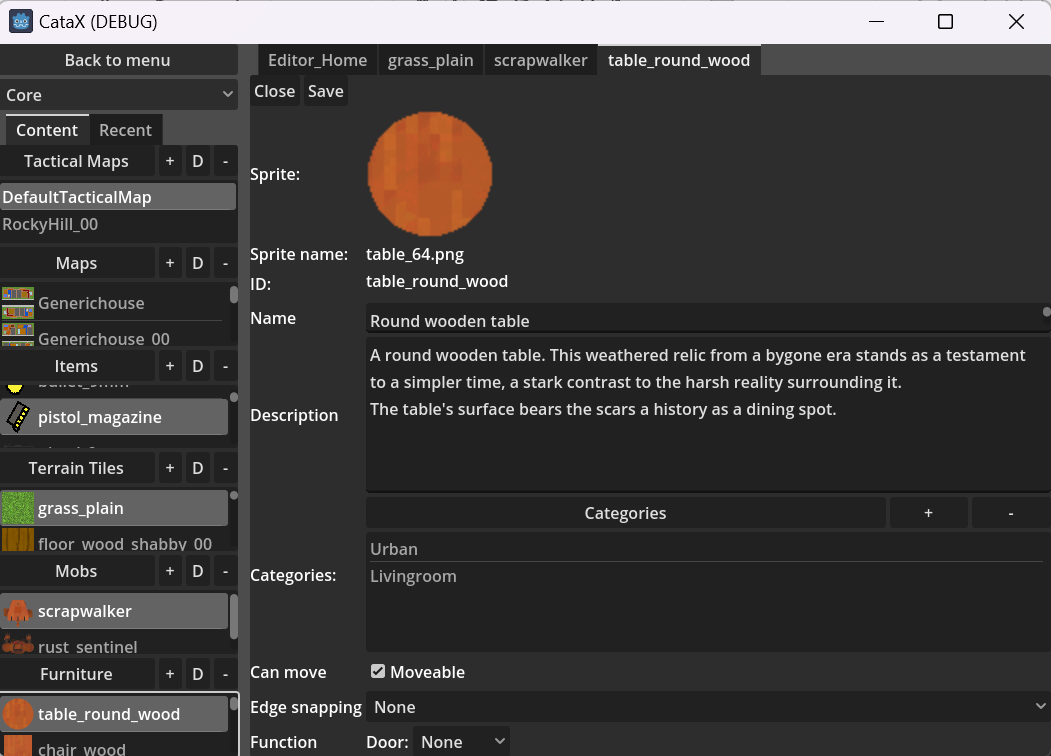
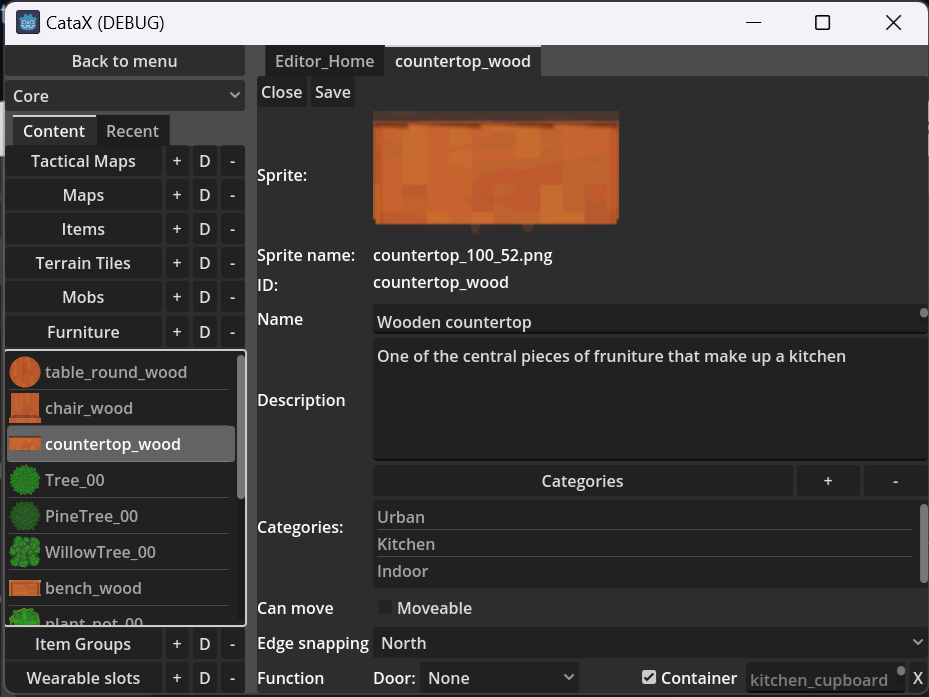
Update readme and screenshots

diff --git a/README.md b/README.md
@@ -5,6 +5,9 @@ Catax is a top-down real-time survival game set in a post-apocalyptic world. Sur
 ![Catax_basic](Media/Catax_basic.png)
 
 
+![Catax_basic](Media/Catax_basic_zoomed_out.png)
+
+
 ## How to play:
 Until releases are shared on GitHub, you can play the game in the following way:
 - Download [Godot](https://godotengine.org/download/) from their website or from [steam](https://store.steampowered.com/app/404790/Godot_Engine/)
@@ -53,8 +56,6 @@ A tacticalmap is made from maps. This allows you to piece together a bigger map.
 
 
 ### Map editor
-
- 
 A map has a fixed size of 32x32 and has a maximum of 21 levels in height, ranging from -10 to +10. 
 - Place tiles, mobs and furniture onto the grid and get creative
 - Controls allow you to move up and down, zoom, rotate, copy/paste and more
@@ -65,6 +66,9 @@ A map has a fixed size of 32x32 and has a maximum of 21 levels in height, rangin
 Allows you to edit and add items in the game. An item will work as you configure it. You can make it work as a weapon and as food if you choose to, the types are not mutually exclusive. Specify the item properties in the convenient editor which has tooltips and controls to help you fill in the right values.
 ![Catax_item_editor](Media/Catax_item_editor.png)
 
+
+One item can have any number of crafting recipes. Use the crafting recipe editor to specify the requirements for this item.
+![Catax_item_editor](Media/Catax_crafting_editor.png)
 
 ### Tile editor
 Allows you to specify the properties of tiles and add new ones. Sprites are loaded from /mods/core/tiles so put your sprites there if you want to add new ones.
@@ -81,6 +85,20 @@ Allows you to create new mobs and configure them. You can then use the map edito
 Create new furniture or edit existing ones with this editor. After creating them, you can place them on the map with the map editor.
 
 ![Catax_furniture_editor](Media/Catax_furniture_editor.png)
+
+
+
+# Itemgroup editor
+Specify itemgroups, used to spawn items in various locations including containers and corpses. By specifying a spawn chance and amount, it offers a wide veriety of possibilities.
+
+![Catax_furniture_editor](Media/Catax_itemgroup_editor.png)
+
+
+
+# Wearable slots editor
+Ever wanted to create that unique piece of armor, but didn't have that slot to fit it in? Now you can add your own slots. These show up in the player's inventory and enables the player to equip armor into it.
+
+![Catax_furniture_editor](Media/Catax_wearableslots_editor.png)
 
 
 ## Roadmap
